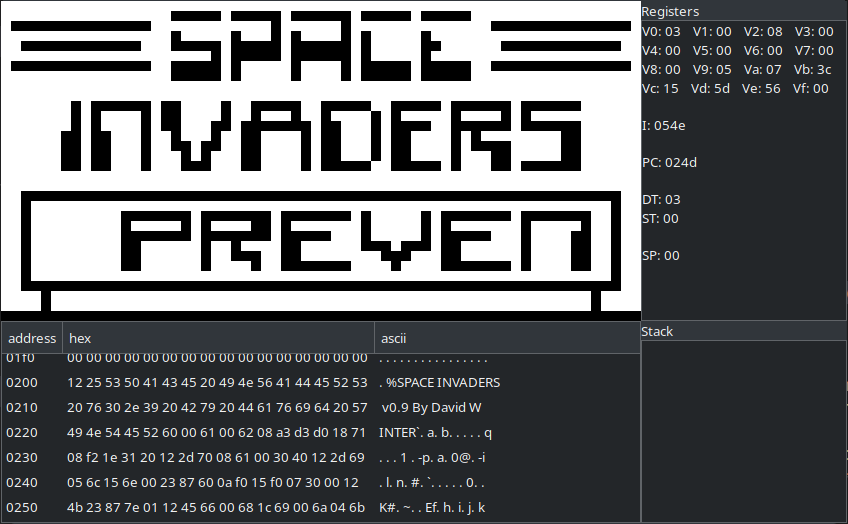
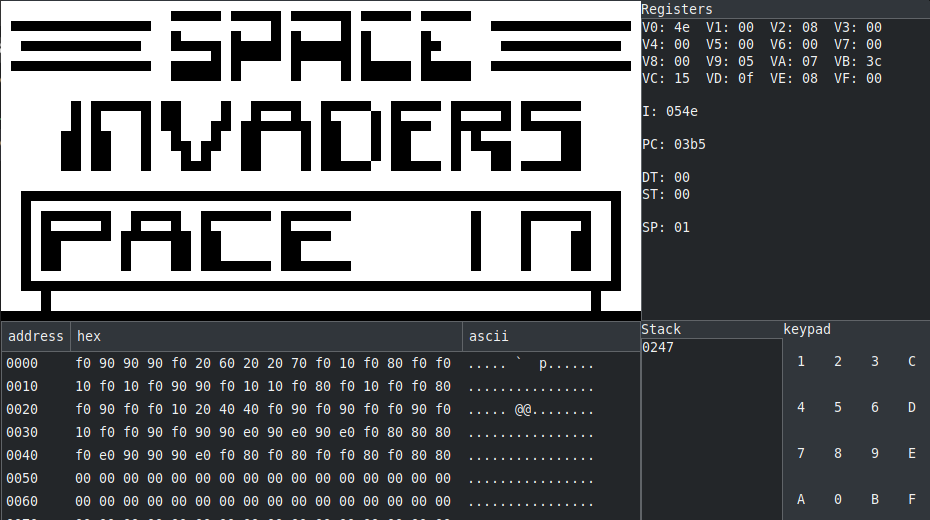
Edit: README and debugger images to match the lastest update

Changed region(s): [[0.0, 0.0, 1.0, 1.0], [0.8585, 0.6769, 0.9505, 0.7077], [0.8892, 0.8615, 0.9505, 0.8923]]

diff --git a/README.md b/README.md
@@ -71,13 +71,18 @@ Some games and roms tried with this emulator
 ### Debugger
 On the process of making a debugger for this emulator/interpreter.
 
+The user can pause the CPU with the `<SPACE>` key, and unpause with the same key.
+And during debug, users can use the `<N>` key to advance one instruction at a time. (can be held).
+
+These can be changed in [cpu.rs::setup_keyboard](src/system/cpu.rs).
+
 #### TODO:
 - [x] Show registers
 - [x] Show stack
 - [x] Show memory
 - [ ] Show instructions
-- [ ] Show keypad
-- [ ] Allow user to stop the CPU in the middle
+- [x] Show keypad
+- [x] Allow user to stop the CPU in the middle
 - [ ] Allow user to edit registers
 - [ ] Allow user to edit memory
 - [ ] Show which registers have changed during the last
